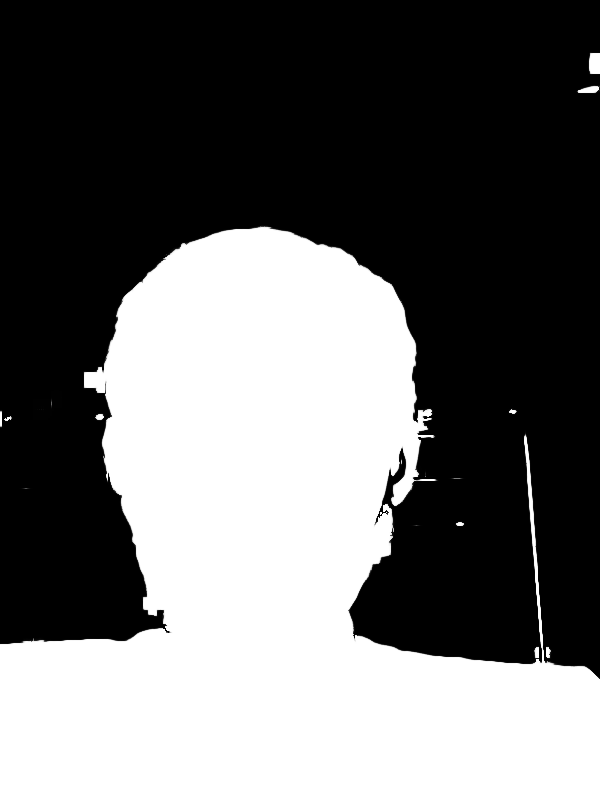
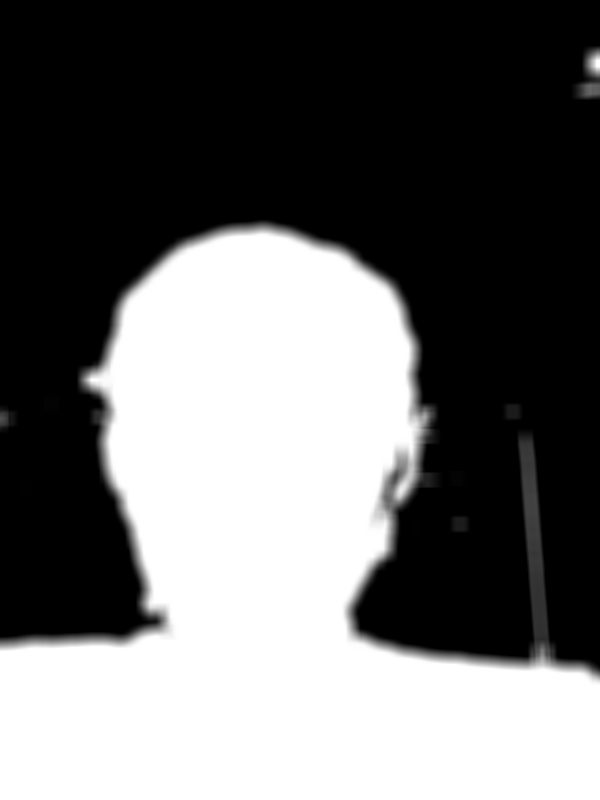
Masks are new smoothed before bg style changing.

diff --git a/foreground_separation/ForegroundSeparator.py b/foreground_separation/ForegroundSeparator.py
@@ -1,8 +1,8 @@
 import numpy as np
 from numpy import *
-from sklearn.cluster import KMeans
 import cv2
 import foreground_separation.ImgProcessingHelper as img_helper
+import foreground_separation.ClusteringHelper as clustering_helper
 
 
 def cluster_color_dict(k):
@@ -22,24 +22,18 @@ def cluster_color_dict(k):
     return dict[k]
 
 
-def k_means_clustering(data, n_clusters, max_iter, n_init):
-    clf = KMeans(init='k-means++', n_clusters=n_clusters, n_init=n_init, max_iter=max_iter)
-    clf.fit(data)
-    return clf.labels_, clf.cluster_centers_
-
-
 def scale_range(input, in_min, in_max, out_min, out_max):
     return ((input - in_min) / (in_max - in_min)) * (out_max - out_min) + out_min;
 
 
 def generate_labelled_img(labels, shape):
-    result = np.empty(shape, dtype=uint8)
+    out = np.empty(shape, dtype=uint8)
     for i in range(shape[0]):
         for j in range(shape[1]):
             color_code = cluster_color_dict(labels[i * shape[1] + j])[1]
             rgb_color = np.uint8([[color_code]])
-            result[i, j] = img_helper.cvt_gbr_2_hsv(rgb_color)[0, 0]
-    return result
+            out[i, j] = img_helper.cvt_gbr_2_hsv(rgb_color)[0, 0]
+    return out
 
 
 def foreground_selection(k):
@@ -72,21 +66,52 @@ def is_foreground(row, col, foreground_clusters, labels, img_size):
 
 
 def generate_masked_img(foreground_clusters, labels, shape):
-    result = np.zeros(shape, dtype=uint8)
+    out = np.zeros(shape, dtype=uint8)
     img_size = [shape[0], shape[1]]
     for i in range(shape[0]):
         for j in range(shape[1]):
             if is_foreground(i, j, foreground_clusters, labels, img_size):
-                result[i, j] = [255, 255, 255]
-    return result
+                out[i, j] = [255, 255, 255]
+    return out
 
 
 def foreground_mask(masked_img_gray, img_size):
     mask = np.empty(img_size, dtype=bool)
     for i in range(img_size[0]):
         for j in range(img_size[1]):
-            mask[i, j] = (masked_img_gray[i, j] != 0)
+            mask[i, j] = (masked_img_gray[i, j] >= 128)
     return mask
+
+
+# edge_len must be odd
+def get_block(row, col, matrix, edge_len):
+    size = matrix.shape
+    upper = row - edge_len // 2
+    lower = row + edge_len // 2
+    left = col - edge_len // 2
+    right = col + edge_len // 2
+
+    if upper < 0:
+        upper = 0
+    if lower >= size[0]:
+        lower = size[0] - 1
+    if left < 0:
+        left = 0
+    if right >= size[1]:
+        right = size[1] - 1
+
+    return matrix[upper:lower+1, left:right+1].copy()
+
+
+def smoothing_masked_img(masked_img_gray, img_size):
+    out = np.zeros(img_size, dtype=np.uint8)
+    block_edge_len = 5
+    for i in range(img_size[0]):
+        for j in range(img_size[1]):
+            block = get_block(i, j, masked_img_gray, edge_len=15)
+            block_size = block.shape
+            out[i, j] = (sum(sum(arr) for arr in block) - masked_img_gray[i, j]) // (block_size[0] * block_size[1] - 1)
+    return out
 
 
 def generate_img_contoured_foreground(img, h):
@@ -103,9 +128,13 @@ def separate_foreground(img, k=8, coord_features_scale=0.25, clustering_max_iter
     s = img_hsv.shape
 
     img_hsv = img_helper.features_append_coord(img_hsv, coord_features_scale)
-    data = img_hsv.reshape(s[0] * s[1], s[2] + 2)
 
-    labels, centroids = k_means_clustering(data, k, max_iter=clustering_max_iter, n_init=clustering_n_init)
+    labels = clustering_helper.k_means_clustering(
+        img_hsv,
+        shape=[s[0], s[1], s[2] + 2],
+        n_clusters=k,
+        max_iter=clustering_max_iter,
+        n_init=clustering_n_init)
 
     labelled_img = generate_labelled_img(labels, s)
     labelled_img = img_helper.cvt_hsv_2_gbr(labelled_img)
@@ -116,6 +145,7 @@ def separate_foreground(img, k=8, coord_features_scale=0.25, clustering_max_iter
     foreground_clusters = foreground_selection(k)
     masked_img = generate_masked_img(foreground_clusters, labels, s)
     masked_img_gray = generate_img_contoured_foreground(masked_img, denoise_level)
+    masked_img_gray = smoothing_masked_img(masked_img_gray, [s[0], s[1]])
 
     img_helper.save_img(masked_img_gray, 'masked_result.png')
     img_helper.display_img_file('masked_result.png')
@@ -124,6 +154,6 @@ def separate_foreground(img, k=8, coord_features_scale=0.25, clustering_max_iter
 
 
 if __name__ == '__main__':
-    img = img_helper.load_img('../data/bottle.png', [600, 800])
+    img = img_helper.load_img('../data/selfie.jpeg', [600, 800])
     # separate_foreground('../data/selfie.jpeg')
-    separate_foreground(img)
+    separate_foreground(img, k=8)

diff --git a/background_blur/BackgroundBlur.py b/background_blur/BackgroundBlur.py
@@ -18,10 +18,15 @@ def merge(blurred_img, origin_img, mask, img_size):
 
 
 def background_blur(img, intensity=5):
-    mask = fg_separator.separate_foreground(img)
+    mask = fg_separator.separate_foreground(img, clustering_n_init=5)
     blurred_img = blur(img, intensity)
     s = img.shape
-    return merge(blurred_img, img, mask, [s[0], s[1]])
+    bg_blurred_img = merge(blurred_img, img, mask, [s[0], s[1]])
+
+    img_helper.save_img(bg_blurred_img, 'blurred_result.png')
+    img_helper.display_img_file('blurred_result.png')
+
+    return bg_blurred_img
 
 
 if __name__ == '__main__':

diff --git a/foreground_separation/ClusteringHelper.py b/foreground_separation/ClusteringHelper.py
@@ -1,0 +1,8 @@
+from sklearn.cluster import KMeans
+
+
+def k_means_clustering(img, shape, n_clusters, max_iter, n_init):
+    data = img.reshape(shape[0] * shape[1], shape[2])
+    clf = KMeans(init='k-means++', n_clusters=n_clusters, n_init=n_init, max_iter=max_iter)
+    clf.fit(data)
+    return clf.labels_
